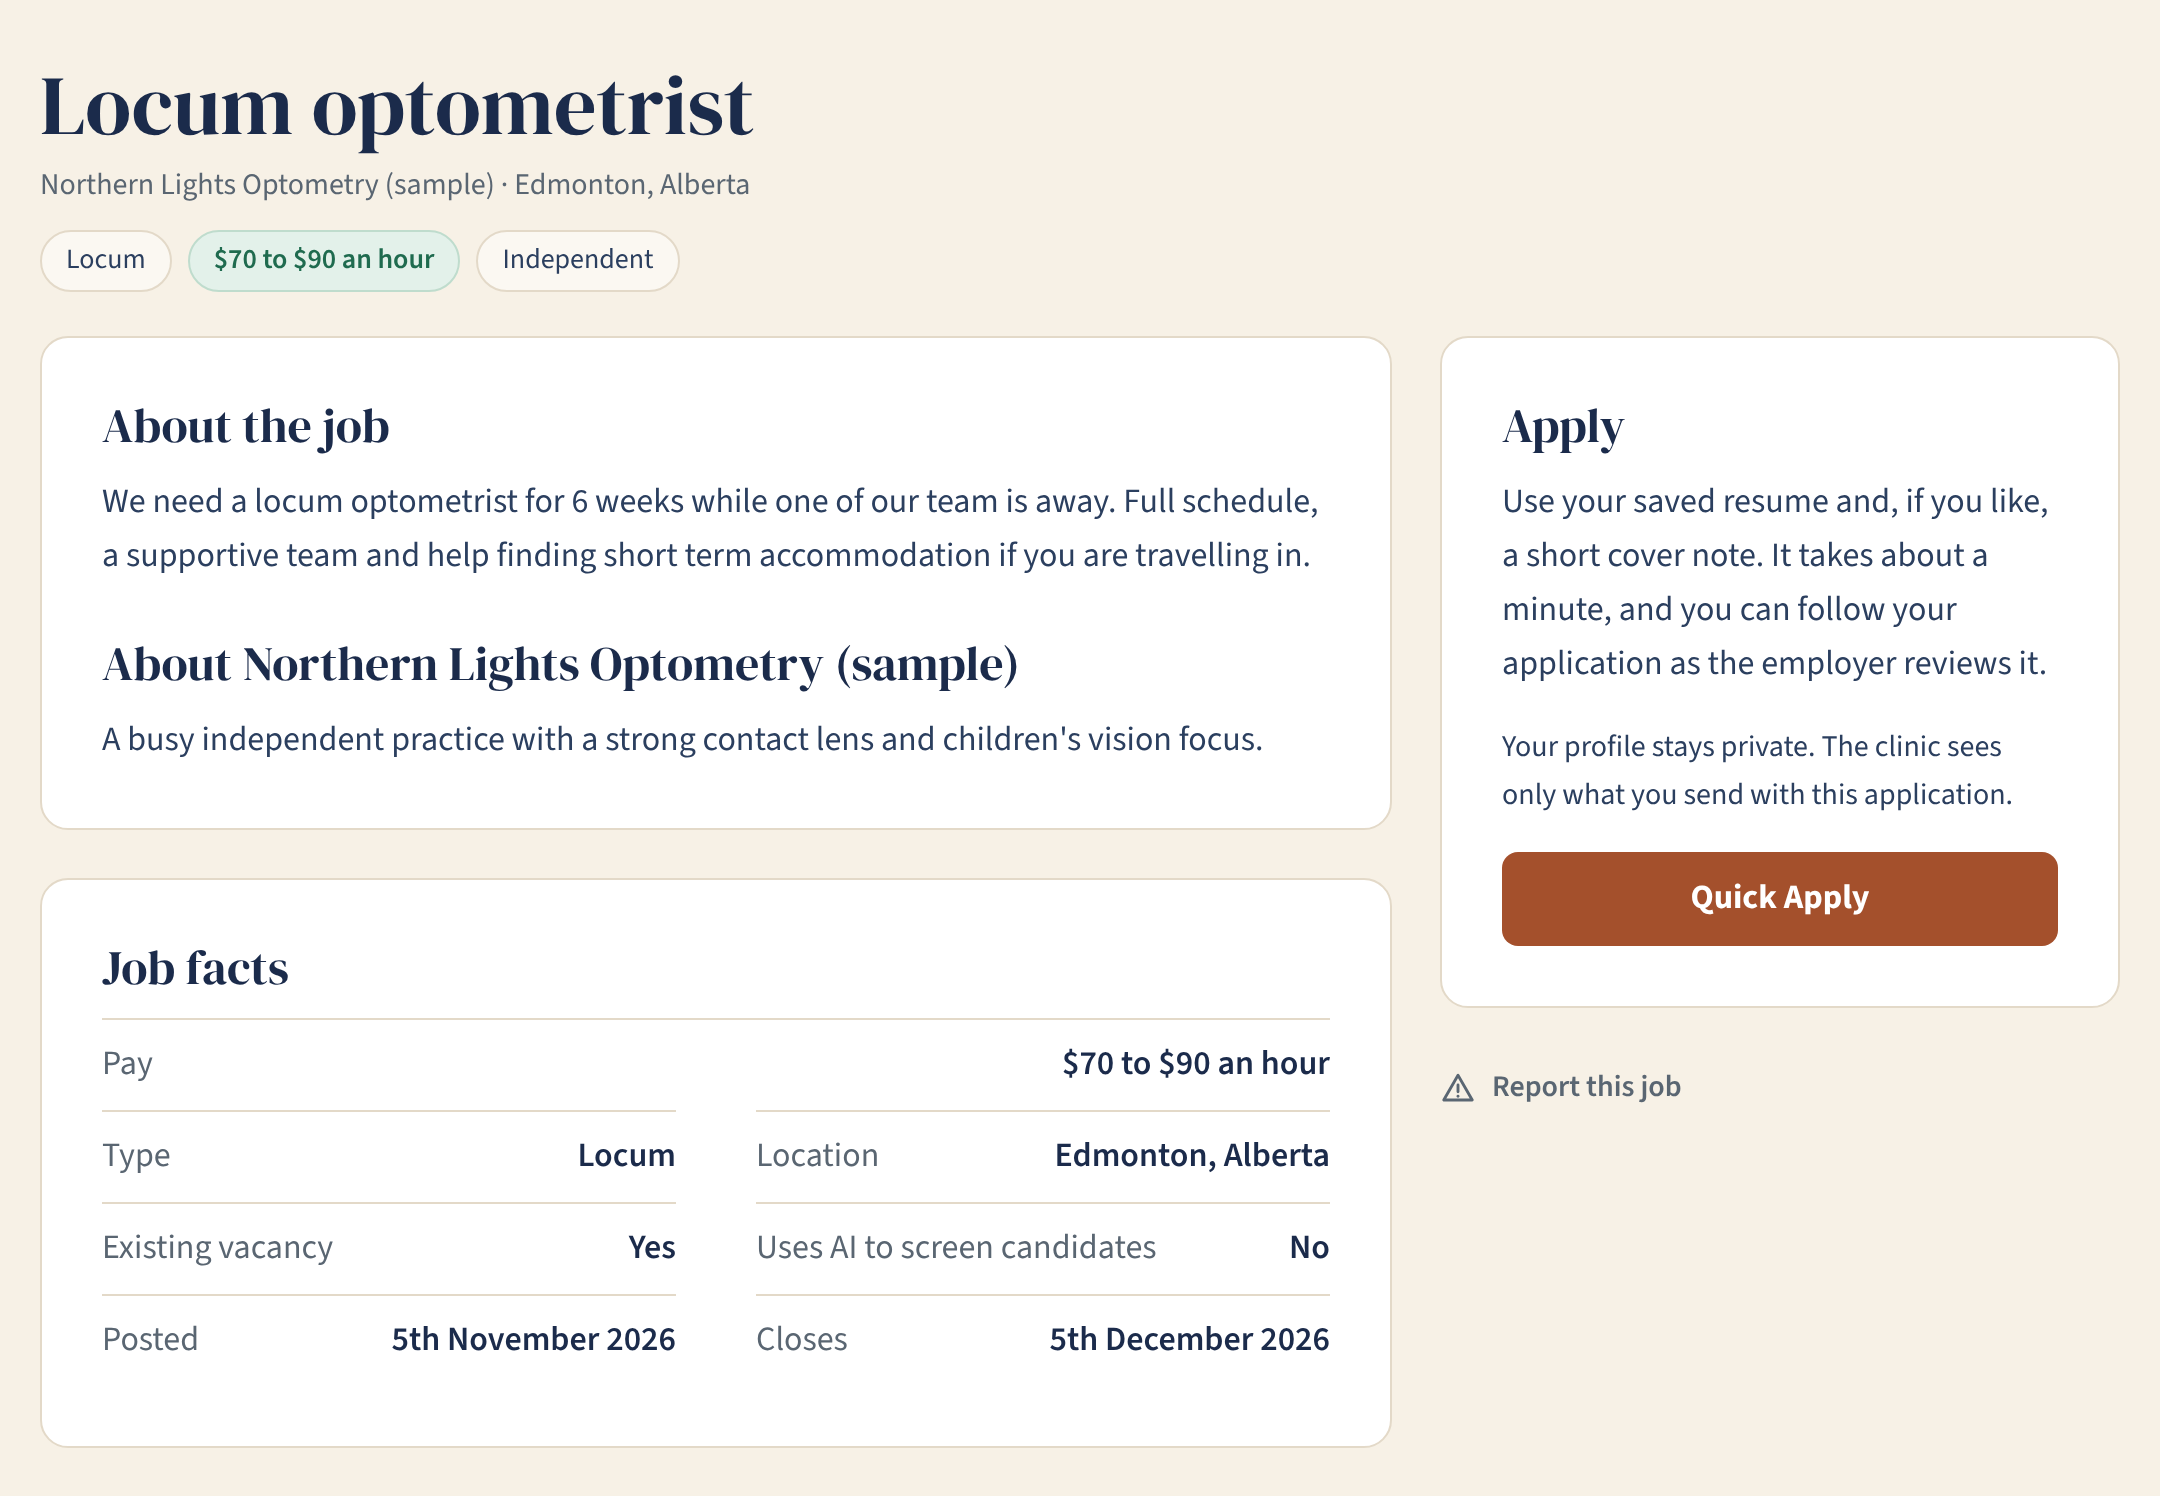
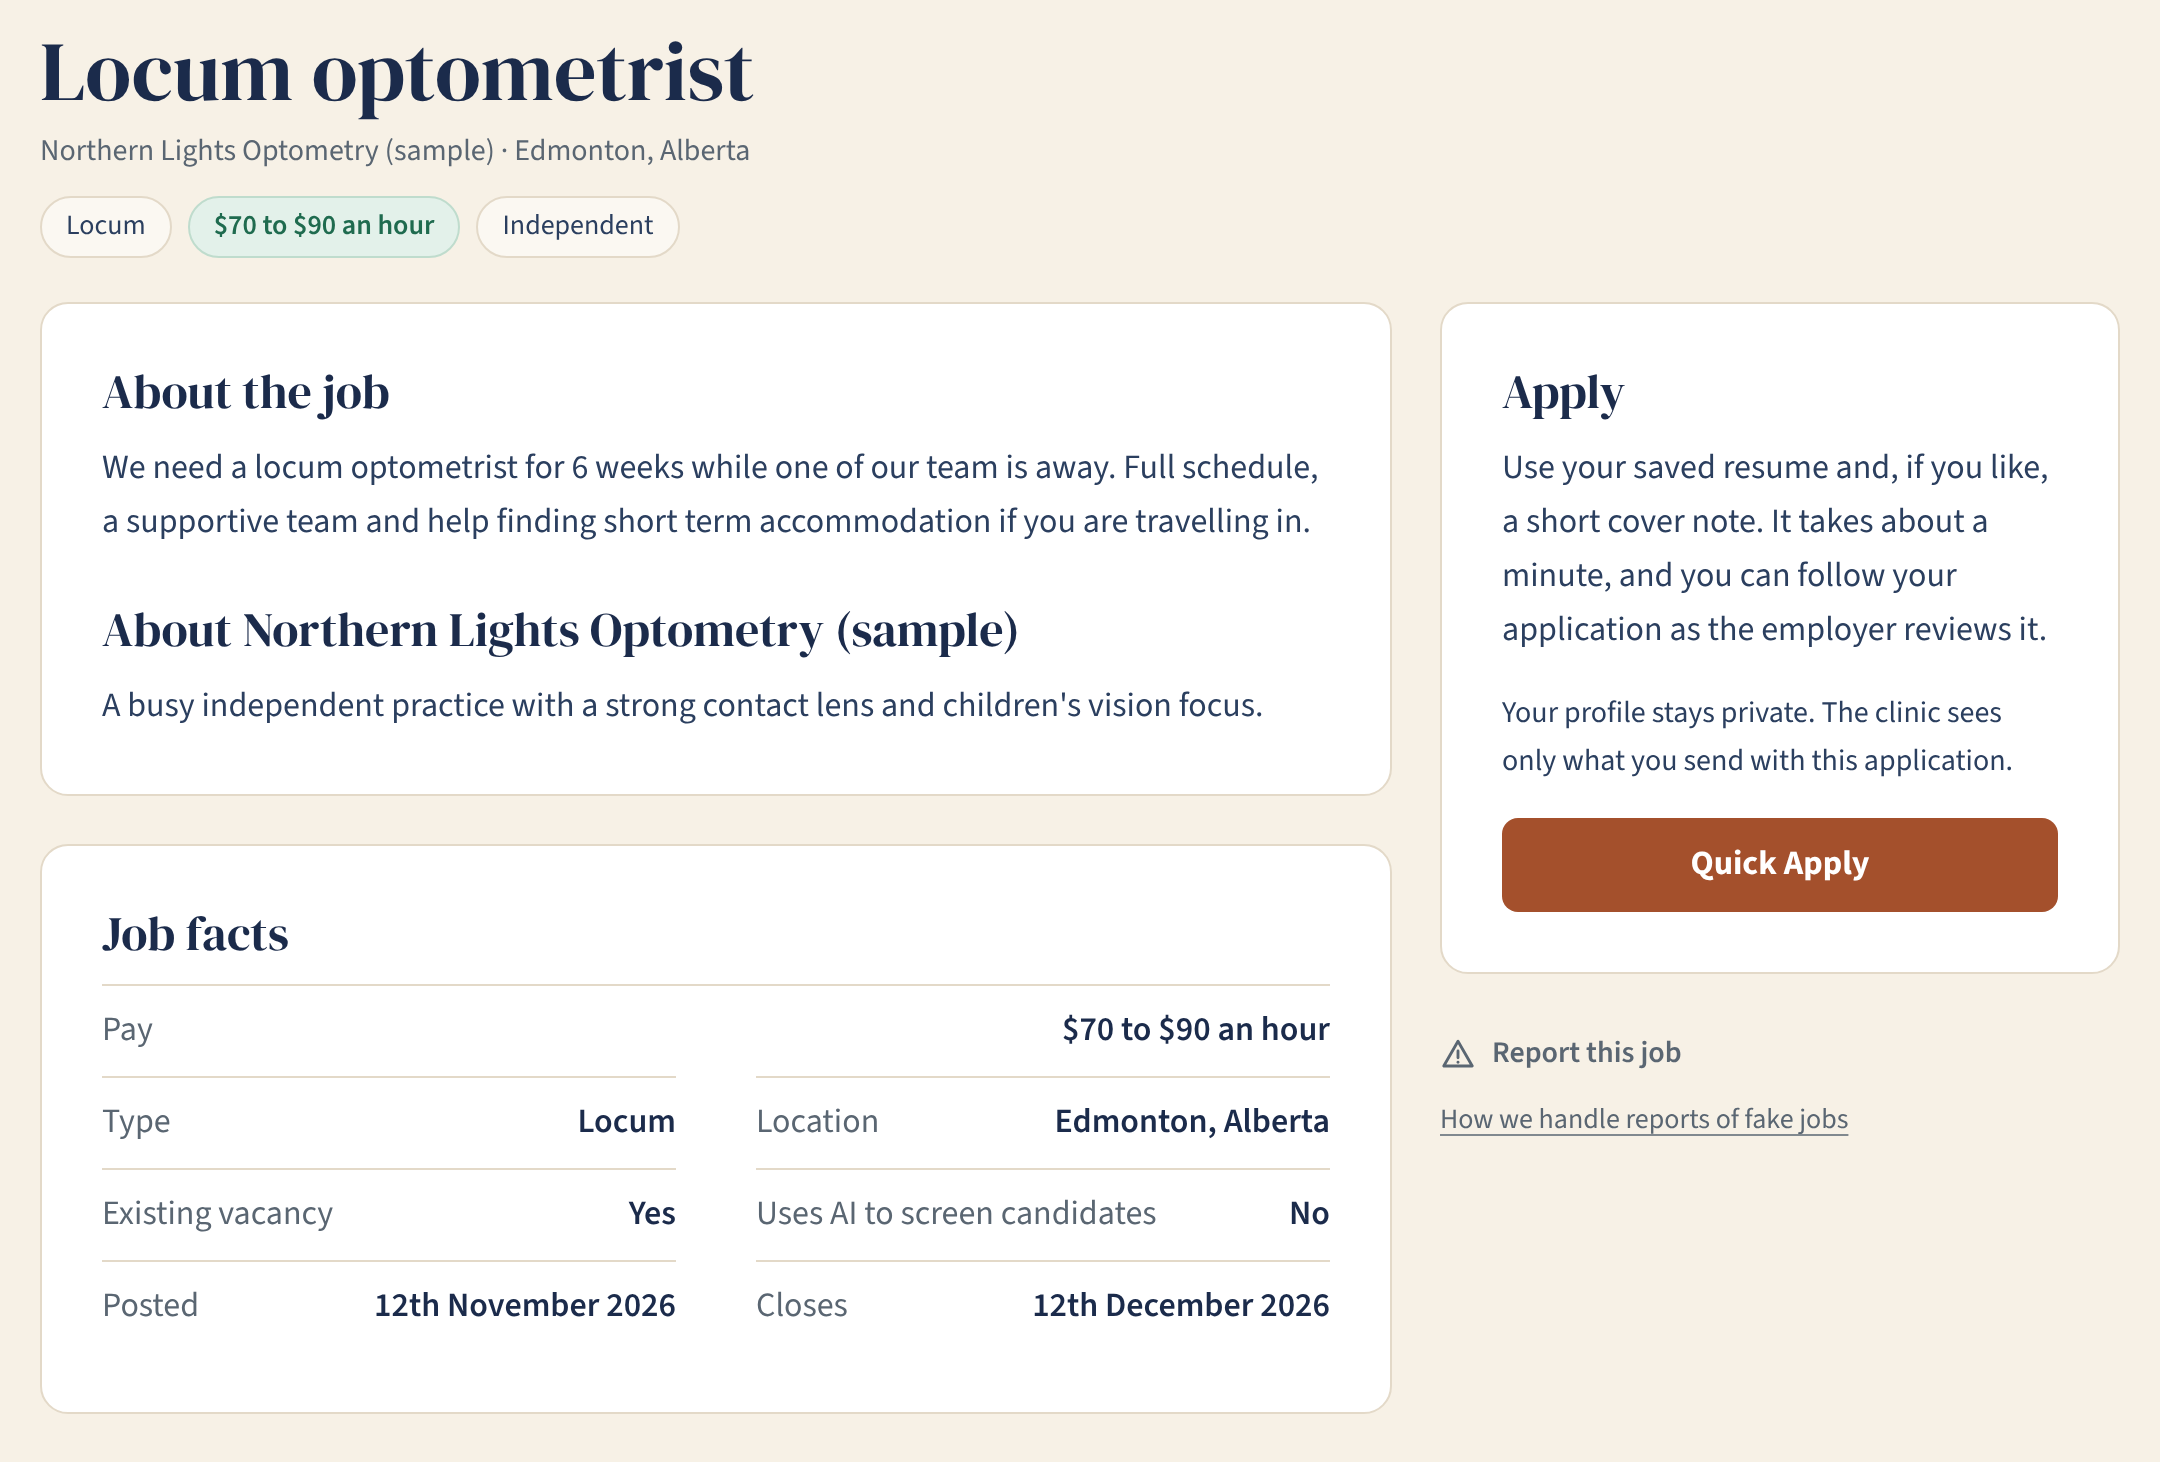
New home page job picture, with the report links together
Claude-Session: https://claude.ai/code/session_01K4dgNP3jRUzwbDJ37u66dM

diff --git a/components/PreLaunchHome.tsx b/components/PreLaunchHome.tsx
@@ -37,7 +37,7 @@ export default function PreLaunchHome() {
                 <figcaption>Search and filter. Every job card shows its pay.</figcaption>
               </figure>
               <figure>
-                <Image src="/home/sample-job.png" alt="A Kestrel job page, with the job description, a Quick Apply button, and job facts that include pay, location, whether it is an existing vacancy, and whether AI is used to screen candidates." width={2160} height={1496} sizes="(max-width: 860px) 100vw, 520px" />
+                <Image src="/home/sample-job.png" alt="A Kestrel job page, with the job description, a Quick Apply button, and job facts that include pay, location, whether it is an existing vacancy, and whether AI is used to screen candidates." width={2160} height={1462} sizes="(max-width: 860px) 100vw, 520px" />
                 <figcaption>A job page. Pay, vacancy and AI screening are stated up front.</figcaption>
               </figure>
             </div>
